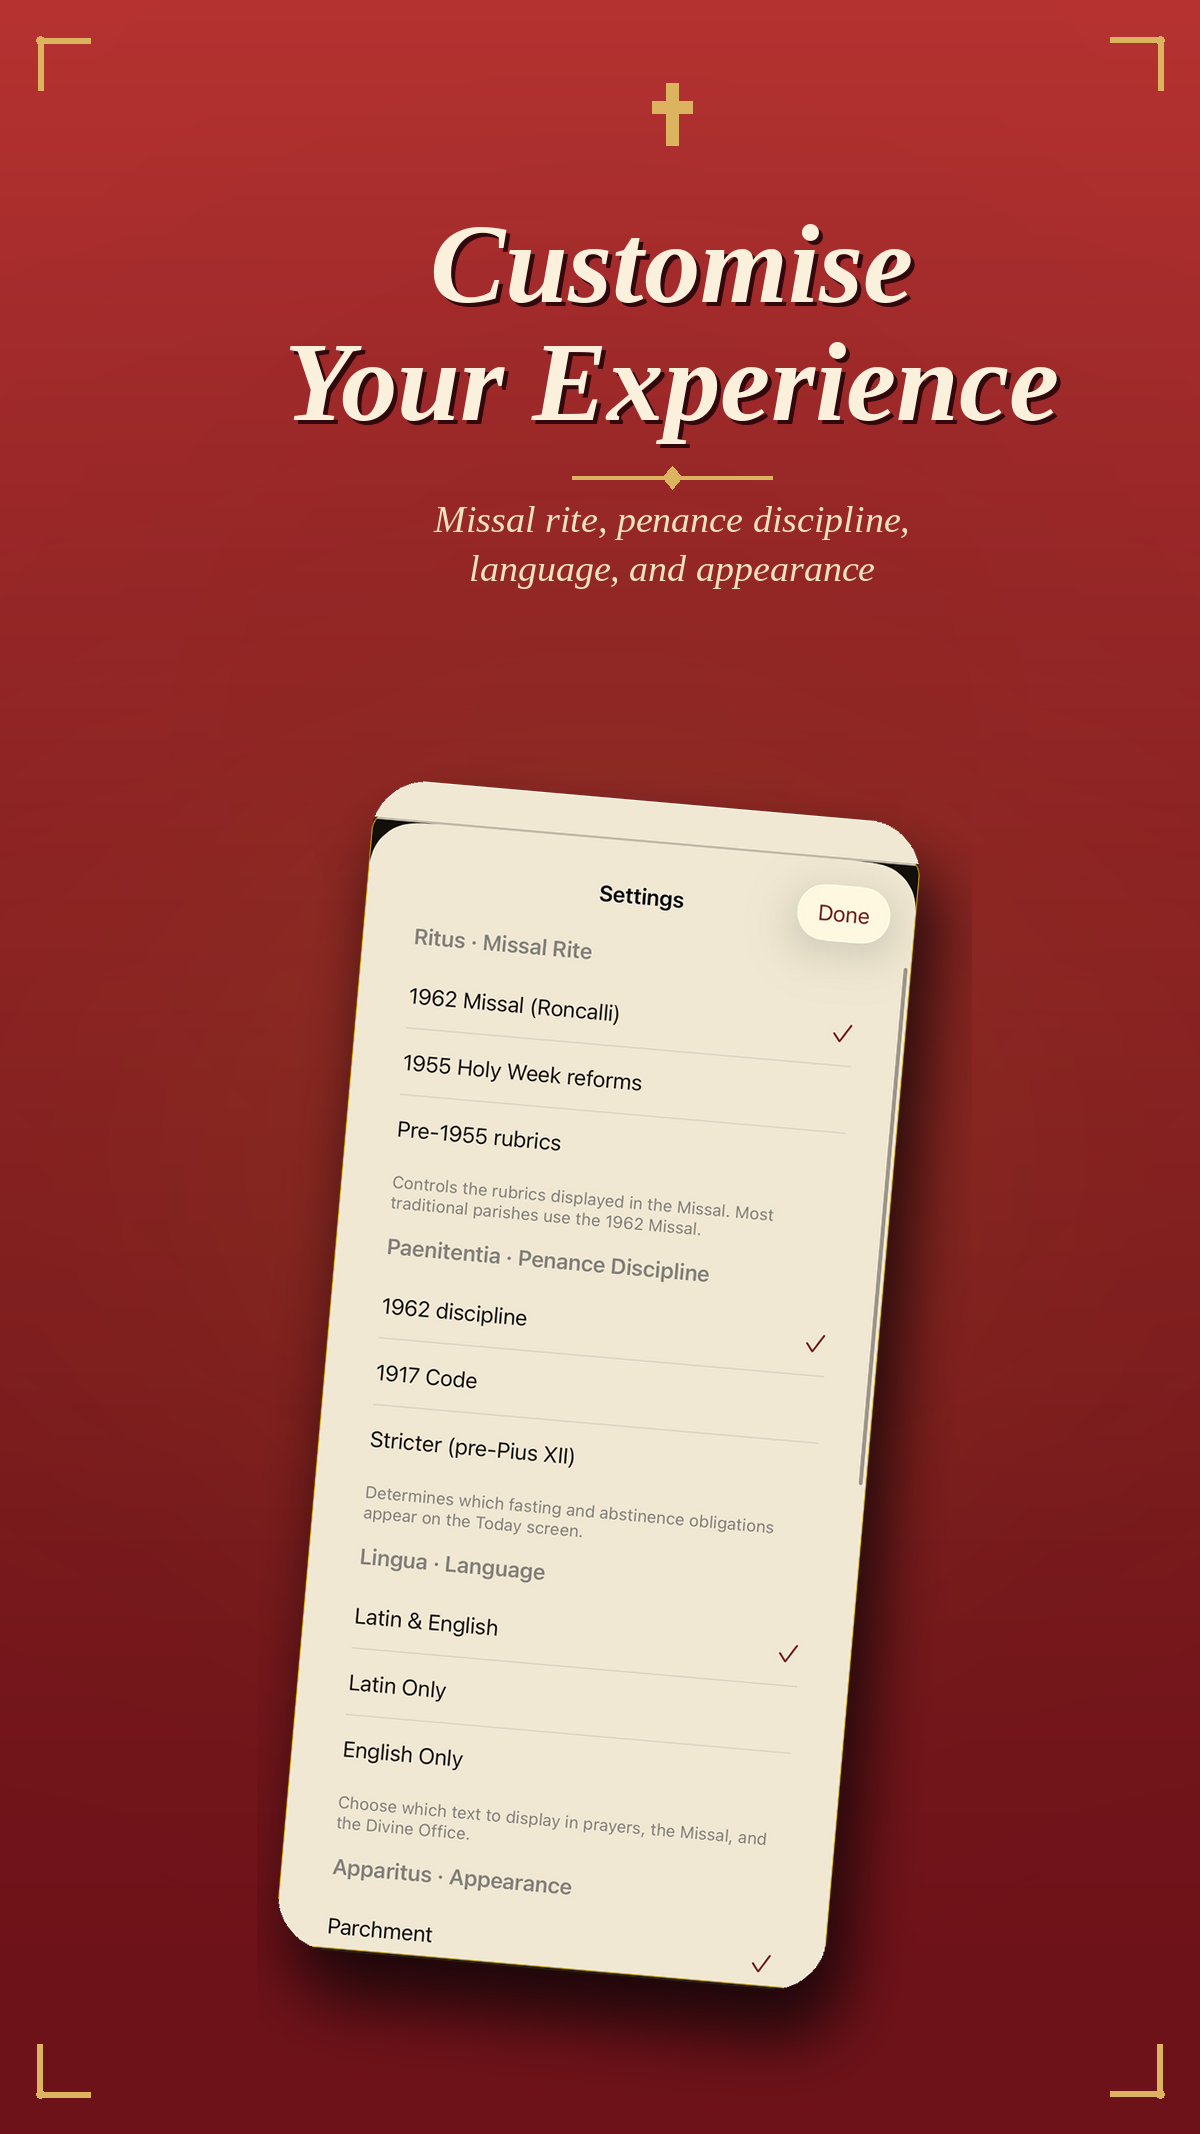
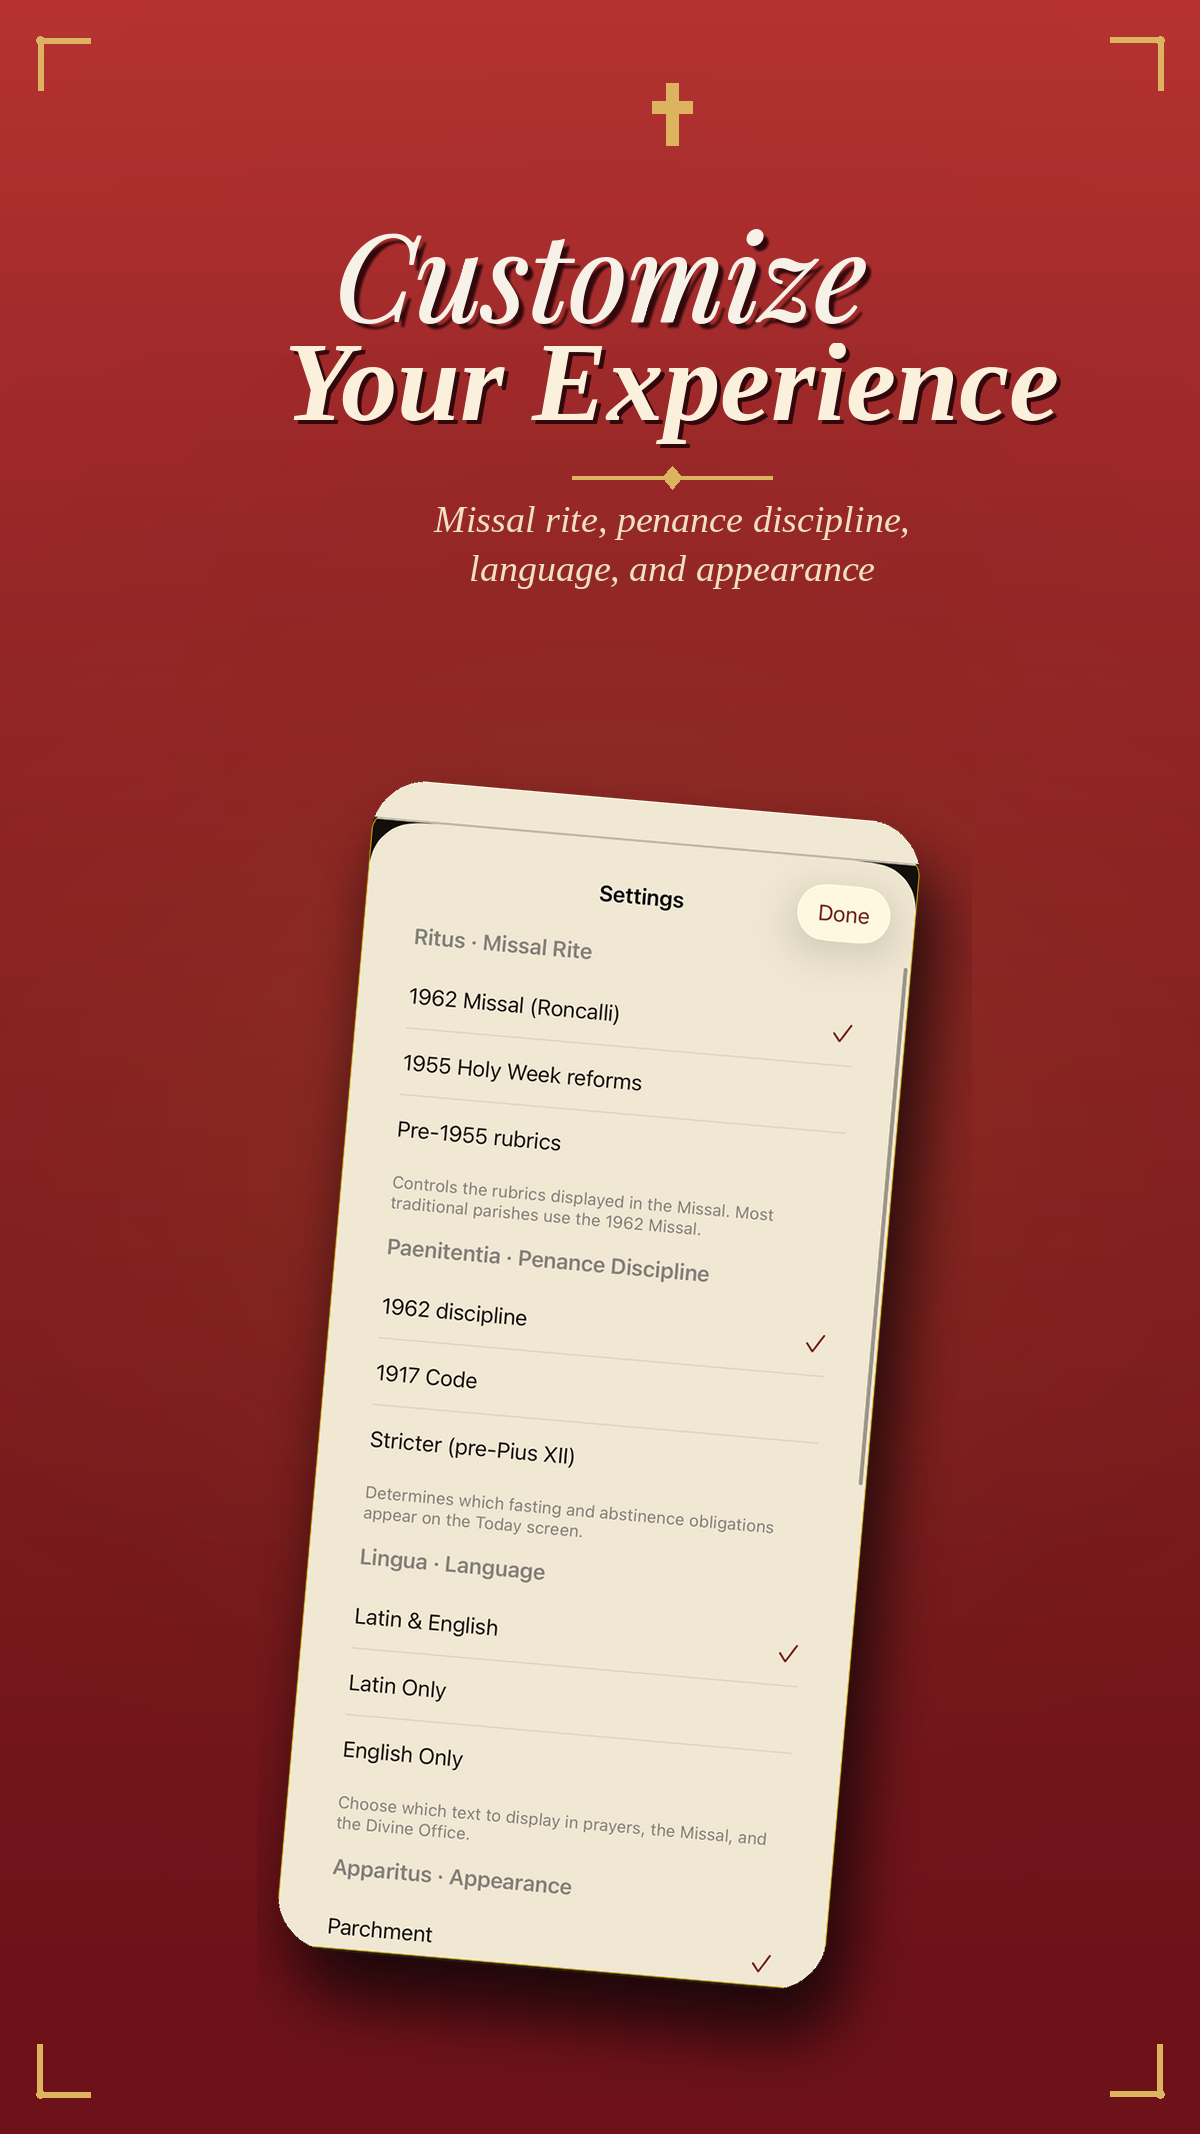
Play screenshots: correct stale caption numbers in place
The committed Play screenshots are genuine Android emulator captures
(the bottom nav shows the Material 3 pill indicator and Icons.Filled.*
glyphs the iOS build can't render), but their baked-in caption text
predated the 1.2.1 number fixes:

  *-02  "501 daily Propers"        -> "574 daily Propers"
  *-03  "40 Traditional Prayers"   -> "67 Traditional Prayers"
  *-04  "91 flashcards"            -> "97 flashcards"  (data has 97)
  *-10  "Customise Your Experience" -> "Customize ..." (US spelling)

Only the first line of each caption changed, so scripts/fix_play_captions.py
repaints just that line — detecting the ink band, erasing it by extending
the image's own gradient, and redrawing the corrected text in the existing
Playfair-italic + drop-shadow style. Line 2 and the (genuine Android)
device shots are untouched. Applied across phone, 7" and 10" tablet sets.

Update docs/play-screenshots.md and docs/play-publish.md to reflect that
the current Android screenshots are caption-corrected and ready to upload.

Claude-Session: https://claude.ai/code/session_01QhyJPZTThGC8cDnMpLEJVP

Changed region(s): [[0.2775, 0.0928, 0.7708, 0.1546]]

diff --git a/scripts/fix_play_captions.py b/scripts/fix_play_captions.py
@@ -1,0 +1,188 @@
+#!/usr/bin/env python3
+"""Repaint stale caption text on the (genuine Android) Play screenshots.
+
+The committed google-play-screenshots are real Android emulator captures
+wrapped in the Introibo marketing style, but their caption text predates the
+1.2.1 number corrections:
+
+    *-02  subtitle  "501 daily Propers"        -> "574 daily Propers"
+    *-03  title     "40 Traditional Prayers"   -> "67 Traditional Prayers"
+    *-04  subtitle  "...91 flashcards..."        -> "...97 flashcards..."  (data=97)
+    *-10  title     "Customise Your Experience" -> "Customize ..."         (US spelling)
+
+We don't have the un-wrapped raw captures, so we repaint *in place*: only the
+first line of each caption changes (line 2 is identical), so we detect the
+line-1 ink band, erase it by extending the image's own vertical gradient, and
+redraw the corrected line. Titles carry the existing drop shadow (offset ~4.6%
+of cap height, colour ~(50,8,12)); subtitles (EB Garamond italic) have none.
+Font size is fitted to line 2's measured ink width (apples-to-apples with
+ImageFont.getbbox), so it matches the untouched line exactly across phone and
+both tablet canvases.
+
+Run from repo root:  python3 scripts/fix_play_captions.py [--phone] [--dry]
+  --phone  only the three phone files, writing scratch_fixed_*.png
+  --dry    write scratch previews instead of overwriting the originals
+"""
+import sys
+from PIL import Image, ImageDraw, ImageFont, ImageFilter
+import make_marketing as mm
+
+TITLE_COL = mm.TITLE_COL          # (247,242,232) ivory
+DESC_COL  = mm.DESC_COL           # (231,214,180) cream
+GOLD      = mm.GOLD               # (214,178,110)
+SHADOW    = (50, 8, 12)           # measured title drop-shadow colour
+
+# n -> (kind, corrected line 1, unchanged line 2)
+EDITS = {
+    2:  ("desc",  "574 daily Propers woven into", "the Ordinary in correct order"),
+    3:  ("title", "67 Traditional",               "Prayers"),
+    4:  ("desc",  "10 lessons, 97 flashcards,",   "and daily vocabulary"),
+    10: ("title", "Customize",                     "Your Experience"),
+}
+
+
+def near(p, c, t):
+    return abs(p[0] - c[0]) <= t and abs(p[1] - c[1]) <= t and abs(p[2] - c[2]) <= t
+
+
+def divider_y(px, W, H):
+    best = (0, 0)
+    for y in range(int(H * 0.10), int(H * 0.45)):
+        n = sum(1 for x in range(0, W, 2) if near(px[x, y], GOLD, 30))
+        if n > best[0]:
+            best = (n, y)
+    return best[1]
+
+
+def line_bands(px, W, color, tol, y0, y1, min_h=6, bridge=3):
+    """Segment `color` ink rows in [y0,y1) into text lines (smoothed profile).
+
+    Gaps up to `bridge` rows are joined (so accents / i-dots merge into their
+    line); bands shorter than `min_h` rows are dropped as fragments.
+    """
+    n = y1 - y0
+    cnt = [0] * n; xa = [W] * n; xb = [0] * n
+    for i, y in enumerate(range(y0, y1)):
+        for x in range(W):
+            if near(px[x, y], color, tol):
+                cnt[i] += 1
+                if x < xa[i]: xa[i] = x
+                if x > xb[i]: xb[i] = x
+    sm = [sum(cnt[max(0, i - 2):i + 3]) / len(cnt[max(0, i - 2):i + 3]) for i in range(n)]
+    peak = max(sm) if sm else 0
+    if peak == 0:
+        return []
+    thr = max(2, peak * 0.12)
+    ink = [s >= thr for s in sm]
+    for i in range(1, n - 1):
+        if not ink[i] and ink[i - 1]:
+            j = i
+            while j < n and not ink[j]:
+                j += 1
+            if j < n and (j - i) <= bridge:
+                for k in range(i, j):
+                    ink[k] = True
+    bands, s = [], None
+    for i in range(n):
+        if ink[i] and s is None:
+            s = i
+        if (not ink[i] or i == n - 1) and s is not None:
+            e = i if not ink[i] else i + 1
+            if e - s >= min_h:
+                bands.append((y0 + s, y0 + e - 1, min(xa[s:e]), max(xb[s:e])))
+            s = None
+    return bands
+
+
+def fit_size(text, font_path, target_w):
+    """Largest size whose rendered ink width for `text` is <= target_w."""
+    lo, hi = 8, 500
+    while lo < hi:
+        mid = (lo + hi + 1) // 2
+        bb = ImageFont.truetype(font_path, mid).getbbox(text)
+        if (bb[2] - bb[0]) <= target_w:
+            lo = mid
+        else:
+            hi = mid - 1
+    return lo
+
+
+def erase_box(img, W, top, bot):
+    px = img.load()
+    for y in range(max(0, top), min(img.size[1], bot + 1)):
+        c = px[4, y]
+        for x in range(W):
+            px[x, y] = c
+
+
+def draw_title_line(img, text, font, cx, ink_top):
+    bb = font.getbbox(text)
+    x = cx - (bb[2] - bb[0]) // 2 - bb[0]
+    y = ink_top - bb[1]
+    off = max(2, round(font.size * 0.046))
+    sh = Image.new("RGBA", img.size, (0, 0, 0, 0))
+    ImageDraw.Draw(sh).text((x + off, y + off), text, font=font, fill=SHADOW + (255,))
+    img.alpha_composite(sh.filter(ImageFilter.GaussianBlur(1)))
+    ImageDraw.Draw(img).text((x, y), text, font=font, fill=TITLE_COL + (255,),
+                             stroke_width=max(1, round(font.size * 0.012)),
+                             stroke_fill=TITLE_COL + (255,))
+
+
+def draw_desc_line(img, text, font, cx, ink_top):
+    bb = font.getbbox(text)
+    x = cx - (bb[2] - bb[0]) // 2 - bb[0]
+    ImageDraw.Draw(img).text((x, ink_top - bb[1]), text, font=font, fill=DESC_COL + (255,))
+
+
+def repaint(path, kind, line1, line2, out):
+    img = Image.open(path).convert("RGBA")
+    W, H = img.size
+    px = img.load()
+    cx = W // 2
+    dy = divider_y(px, W, H)
+
+    # The Android Play renders use make_marketing's size fractions (verified:
+    # phone title 0.10*W = 108 matches exactly). Detection-derived sizing is
+    # too noisy (anti-alias clipping), so use the fraction directly.
+    frac = 0.100 if kind == "title" else 0.0335
+    size = round(W * frac)
+    min_h = round(size * 0.30); bridge = round(size * 0.14)
+
+    if kind == "title":
+        color, font_path = TITLE_COL, mm.TITLE_FONT
+        top_bound = int(H * 0.05)
+        bands = line_bands(px, W, color, 26, top_bound, dy - 6, min_h, bridge)
+    else:
+        color, font_path = DESC_COL, mm.DESC_FONT
+        top_bound = dy + 4
+        bands = line_bands(px, W, color, 13, top_bound, dy + int(H * 0.060), min_h, bridge)
+
+    if len(bands) < 2:
+        raise SystemExit(f"{path}: detected {len(bands)} {kind} line(s) (<2): {bands}")
+
+    bt, bb_, x0, x1 = bands[0]
+    l2 = bands[1]
+    font = ImageFont.truetype(font_path, size)
+
+    e_top = max(top_bound + 2, bt - round(size * 0.30))
+    e_bot = min(l2[0] - 3, bb_ + round(size * 0.35))
+    erase_box(img, W, e_top, e_bot)
+
+    (draw_title_line if kind == "title" else draw_desc_line)(img, line1, font, cx, bt)
+
+    img.convert("RGB").save(out, "PNG")
+    print(f"{out}: {kind} size {size} rows {bt}-{bb_} erase {e_top}-{e_bot} div@{dy}")
+
+
+if __name__ == "__main__":
+    dry = "--dry" in sys.argv or "--phone" in sys.argv
+    prefixes = ("phone",) if "--phone" in sys.argv else ("phone", "tablet-7in", "tablet-10in")
+    for n, (kind, l1, l2) in EDITS.items():
+        for pre in prefixes:
+            p = f"google-play-screenshots/{pre}-{n:02d}.png"
+            try:
+                open(p, "rb").close()
+            except FileNotFoundError:
+                continue
+            out = f"scratch_fixed_{pre}-{n:02d}.png" if dry else p
+            repaint(p, kind, l1, l2, out)

diff --git a/docs/play-screenshots.md b/docs/play-screenshots.md
@@ -1,14 +1,32 @@
 # Google Play Screenshots — Capture & Generate
 
-This is the Android counterpart to `docs/marketing-screenshots.md`. The
-generator is `scripts/make_play_marketing.py` — it wraps raw Android
-captures in the same Introibo house style as the App Store set
-(`1.2.1 screenshots/`) and writes the Play assets into
-`google-play-screenshots/`.
+This is the Android counterpart to `docs/marketing-screenshots.md`.
 
 > The Play screenshots must show the **Android** app — not the iPhone set —
 > because the Material 3 UI looks meaningfully different from SwiftUI. The
 > Apple captures cannot be reused.
+
+## Current state (1.2.1)
+
+The committed `google-play-screenshots/{phone,tablet-7in,tablet-10in}-NN.png`
+**are genuine Android emulator captures** (verify: the bottom nav shows the
+Material 3 pill indicator and `Icons.Filled.*` icons that the iOS build does
+not render). They were wrapped by an older generator that used a drop-shadow
+title style.
+
+Their caption text was stale and has been corrected **in place** by
+`scripts/fix_play_captions.py` (501→574 Propers, 40→67 Prayers, 91→97
+flashcards, Customise→Customize) — only the text was repainted; the device
+shots are untouched. So the current set is ready to upload as-is for 1.2.1.
+
+## Regenerating from scratch (future releases)
+
+When the Android UI changes enough that the device shots are stale, capture
+fresh screens and re-wrap them with `scripts/make_play_marketing.py`, which
+reproduces the **canonical flat-title** App Store house style (no drop
+shadow) at the Play canvas sizes. (A full regen therefore drops the old
+drop-shadow look in favour of the canonical one — an intentional improvement,
+matching the Apple set.)
 
 ---
 

diff --git a/docs/play-publish.md b/docs/play-publish.md
@@ -121,7 +121,7 @@ In **Play Console → Grow → Store presence → Main store listing**:
 |-------------------|-----------------------------------------------------|
 | App icon (512²)   | `google-play-screenshots/app-icon-512.png`          |
 | Feature graphic   | `google-play-screenshots/feature-graphic-1024x500.png` *(regenerated this branch)* |
-| Phone screenshots | `google-play-screenshots/phone-NN.png` *(needs Android captures — see `docs/play-screenshots.md`)* |
+| Phone screenshots | `google-play-screenshots/phone-NN.png` *(genuine Android, captions corrected for 1.2.1 — ready to upload)* |
 | 7" tablet         | `google-play-screenshots/tablet-7in-NN.png`         |
 | 10" tablet        | `google-play-screenshots/tablet-10in-NN.png`        |
 | Short description | `google-play-screenshots/STORE_LISTING.md`          |
